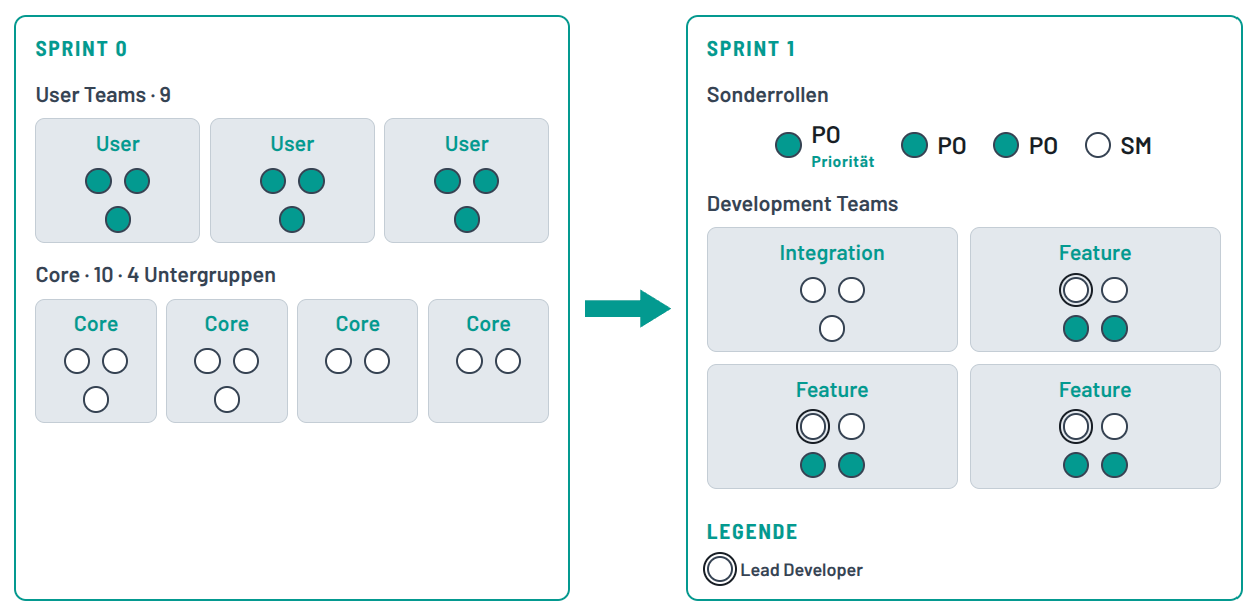
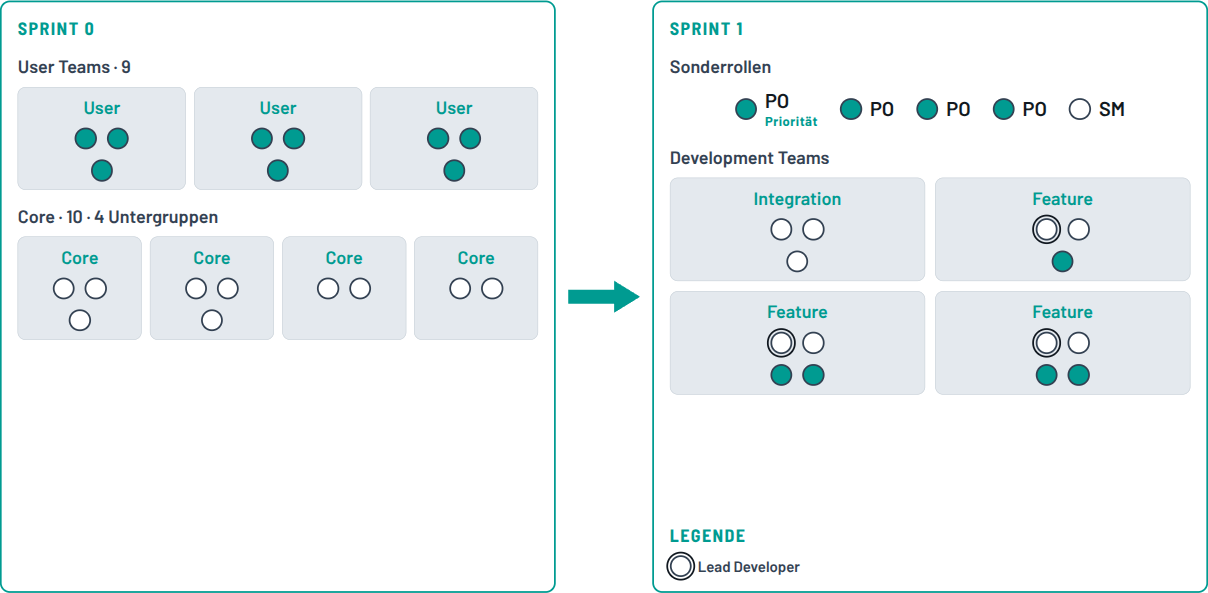
Adjust roles after Sprint 0 feedback

diff --git a/docs/projekt/rollen_arbeitsvereinbarungen/uebergang_sprint1.html b/docs/projekt/rollen_arbeitsvereinbarungen/uebergang_sprint1.html
@@ -1,0 +1,216 @@
+<!DOCTYPE html>
+<html lang="de">
+<head>
+  <meta charset="utf-8">
+  <meta name="viewport" content="width=device-width, initial-scale=1">
+  <title>Besetzung Sprint 1</title>
+  <link rel="stylesheet" href="https://fonts.googleapis.com/css2?family=Barlow+Semi+Condensed:wght@700&family=Barlow:wght@400;500;600;700;800&display=swap">
+  <style>
+    * { box-sizing: border-box; }
+    html, body { margin: 0; }
+    body {
+      background: #e8e8e6;
+      color: #111820;
+      font: 22px/1.35 Barlow, "Segoe UI", sans-serif;
+    }
+    .slide {
+      width: min(1280px, 100vw);
+      aspect-ratio: 16 / 9;
+      margin: 0 auto 16px;
+      background: #fff;
+      padding: 28px 36px 24px;
+      display: flex;
+      flex-direction: column;
+      gap: 16px;
+      overflow: hidden;
+    }
+    header { display: flex; justify-content: space-between; align-items: baseline; gap: 24px; }
+    h1 { margin: 0; font-size: 44px; font-weight: 800; letter-spacing: -0.02em; }
+    .boards {
+      flex: 1;
+      display: grid;
+      grid-template-columns: 1fr auto 1fr;
+      gap: 12px;
+      align-items: stretch;
+      min-height: 0;
+    }
+    .board {
+      border: 2px solid #009b91;
+      border-radius: 10px;
+      background: #fff;
+      padding: 14px 16px;
+      display: flex;
+      flex-direction: column;
+      gap: 14px;
+      min-height: 0;
+    }
+    h2 {
+      margin: 0;
+      font-family: "Barlow Semi Condensed", Barlow, sans-serif;
+      font-size: 18px;
+      font-weight: 700;
+      letter-spacing: 0.08em;
+      text-transform: uppercase;
+      color: #009b91;
+    }
+    .cluster { display: flex; flex-direction: column; gap: 8px; }
+    .cluster-label {
+      margin: 0;
+      font-size: 18px;
+      font-weight: 600;
+      color: #334152;
+    }
+    .row { display: flex; gap: 8px; }
+    .box {
+      flex: 1;
+      border: 1px solid #c5ced6;
+      border-radius: 8px;
+      background: #e4e9ee;
+      padding: 8px;
+      display: flex;
+      flex-direction: column;
+      align-items: center;
+      gap: 8px;
+      min-width: 0;
+    }
+    .box span { font-size: 18px; font-weight: 600; color: #009b91; }
+    .dots {
+      display: flex;
+      flex-wrap: wrap;
+      justify-content: center;
+      width: 56px;
+      gap: 10px;
+    }
+    .dot {
+      width: 22px;
+      height: 22px;
+      border-radius: 50%;
+      background: #fff;
+      border: 2px solid #334152;
+    }
+    .dot.user { background: #009b91; }
+    .dot.role { outline: 2px solid #111820; outline-offset: 2px; }
+    .legend {
+      margin-top: auto;
+      font-size: 15px;
+      font-weight: 600;
+      color: #334152;
+    }
+    .legend h3 {
+      margin: 0 0 8px;
+      font-family: "Barlow Semi Condensed", Barlow, sans-serif;
+      font-size: 18px;
+      font-weight: 700;
+      letter-spacing: 0.08em;
+      text-transform: uppercase;
+      color: #009b91;
+    }
+    .legend span { display: flex; align-items: center; gap: 6px; }
+    .loose {
+      display: flex;
+      justify-content: center;
+      gap: 22px;
+      align-items: center;
+    }
+    .person { display: flex; align-items: center; gap: 8px; font-size: 20px; font-weight: 600; color: #111820; }
+    .person small {
+      display: block;
+      font-size: 13px;
+      font-weight: 700;
+      letter-spacing: 0.04em;
+      color: #009b91;
+    }
+    .dev {
+      display: grid;
+      grid-template-columns: 1fr 1fr;
+      gap: 10px;
+      align-items: start;
+      align-content: start;
+    }
+    .flow-arrow {
+      display: flex;
+      align-items: center;
+      justify-content: center;
+      width: 72px;
+    }
+    @page {
+      size: 13.333in 7.5in;
+      margin: 0;
+    }
+    @media print {
+      html, body { margin: 0; background: #fff; }
+      .box, .dot, .board {
+        -webkit-print-color-adjust: exact;
+        print-color-adjust: exact;
+      }
+      .slide {
+        width: 13.333in;
+        height: 7.5in;
+        aspect-ratio: auto;
+        margin: 0;
+        overflow: hidden;
+      }
+    }
+  </style>
+</head>
+<body>
+  <article class="slide" id="uebergang">
+    <header>
+      <h1>Übergang zu Sprint 1</h1>
+    </header>
+    <div class="boards">
+      <section class="board">
+        <h2>Sprint 0</h2>
+        <div class="cluster">
+          <p class="cluster-label">User Teams · 9</p>
+          <div class="row">
+            <div class="box"><span>User</span><div class="dots"><i class="dot user"></i><i class="dot user"></i><i class="dot user"></i></div></div>
+            <div class="box"><span>User</span><div class="dots"><i class="dot user"></i><i class="dot user"></i><i class="dot user"></i></div></div>
+            <div class="box"><span>User</span><div class="dots"><i class="dot user"></i><i class="dot user"></i><i class="dot user"></i></div></div>
+          </div>
+        </div>
+        <div class="cluster">
+          <p class="cluster-label">Core · 10 · 4 Untergruppen</p>
+          <div class="row">
+            <div class="box"><span>Core</span><div class="dots"><i class="dot"></i><i class="dot"></i><i class="dot"></i></div></div>
+            <div class="box"><span>Core</span><div class="dots"><i class="dot"></i><i class="dot"></i><i class="dot"></i></div></div>
+            <div class="box"><span>Core</span><div class="dots"><i class="dot"></i><i class="dot"></i></div></div>
+            <div class="box"><span>Core</span><div class="dots"><i class="dot"></i><i class="dot"></i></div></div>
+          </div>
+        </div>
+      </section>
+      <div class="flow-arrow" aria-hidden="true">
+        <svg viewBox="0 0 72 36" width="72" height="36">
+          <polygon points="0,11 46,11 46,2 72,18 46,34 46,25 0,25" fill="#009b91"/>
+        </svg>
+      </div>
+      <section class="board">
+        <h2>Sprint 1</h2>
+        <div class="cluster">
+          <p class="cluster-label">Sonderrollen</p>
+          <div class="loose">
+            <span class="person"><i class="dot user"></i><span>PO<small>Priorität</small></span></span>
+            <span class="person"><i class="dot user"></i> PO</span>
+            <span class="person"><i class="dot user"></i> PO</span>
+            <span class="person"><i class="dot user"></i> PO</span>
+            <span class="person"><i class="dot"></i> SM</span>
+          </div>
+        </div>
+        <div class="cluster">
+          <p class="cluster-label">Development Teams</p>
+          <div class="row dev">
+            <div class="box"><span>Integration</span><div class="dots"><i class="dot"></i><i class="dot"></i><i class="dot"></i></div></div>
+            <div class="box"><span>Feature</span><div class="dots"><i class="dot role"></i><i class="dot"></i><i class="dot user"></i></div></div>
+            <div class="box"><span>Feature</span><div class="dots"><i class="dot role"></i><i class="dot"></i><i class="dot user"></i><i class="dot user"></i></div></div>
+            <div class="box"><span>Feature</span><div class="dots"><i class="dot role"></i><i class="dot"></i><i class="dot user"></i><i class="dot user"></i></div></div>
+          </div>
+        </div>
+        <div class="legend">
+          <h3>Legende</h3>
+          <span><i class="dot role"></i> Lead Developer</span>
+        </div>
+      </section>
+    </div>
+  </article>
+</body>
+</html>

diff --git a/docs/projekt/rollen_arbeitsvereinbarungen/README.md b/docs/projekt/rollen_arbeitsvereinbarungen/README.md
@@ -2,15 +2,24 @@
 
 ## Rollen und Verantwortungen
 
-### Product Owner (3)
+### Product Owner (4)
+
+- Entwickeln nicht.
+- ein gemeinsames Backlog
+
+#### PO der Sicht (3)
 
 - Kontakt zu Seezeit für die eigene Sicht
   - Drei Sichten: Studierende, Objektbetreuer, Sachbearbeiter. Je Sicht eine Person.
-- Entwickeln nicht.
 - Stories, Definition of Ready und fachliche Abnahme der eigenen Sicht
 - entscheidet den Inhalt der eigenen Sicht
-- ein gemeinsames Backlog
-- eine Person entscheidet die Priorität, Konflikte zwischen den Sichten und die gemeinsame Definition of Done
+- entscheidet die Definition of Done der eigenen Story. Die gemeinsame Checkliste gilt für jede Story. Die PO der Sicht kann Kriterien für die eigene Sicht ergänzen.
+
+#### PO Priorität (1)
+
+- keine eigene Sicht
+- entscheidet die Priorität des gemeinsamen Backlogs
+- entscheidet Konflikte zwischen den Sichten
 
 ### Scrum Master / Coach (1)
 
@@ -68,7 +77,7 @@ Mobile und verteilte Arbeit. Asynchron über Discord-channels, synchron in den W
 | Entwicklungs-Channel (general) | Laufende Abstimmung aller Feature Teams, des PO und des Scrum Masters zu Stories, Feature Branches, Reviews, Architektur und Terminen                       | höchstens zwei Werktage |
 | Feature-Channel                | Jeweils für die Feature Teams intern                                                                                                                        | höchstens zwei Werktage |
 | Integrations-Channel           | Für das Integrationsteam intern                                                                                                                             | höchstens zwei Werktage |
-| PO-Channel                     | Abstimmung der POs, ergibt sich aus den Bedürfnissen der POs, an den drei Sichten orientiert                                                                | höchstens zwei Werktage |
+| PO-Channel                     | Abstimmung der POs der Sicht und der PO Priorität, an den drei Sichten orientiert                                                                           | höchstens zwei Werktage |
 | Emergency-Channel              | Die VM steht, jemand ist nicht erreichbar (zum Beispiel ein wichtiger offener Merge) oder das Prod-Environment ist nicht erreichbar (zum Beispiel HTTP 500) | am selben Tag           |
 
 
@@ -83,7 +92,7 @@ Mobile und verteilte Arbeit. Asynchron über Discord-channels, synchron in den W
 
 ### Abstimmung
 
-- Jede PO-Person ist die Schnittstelle zu Seezeit für ihre Sicht (Studierende, Objektbetreuer, Sachbearbeiter). Eine davon priorisiert das gemeinsame Backlog.
+- Jede PO der Sicht ist die Schnittstelle zu Seezeit für ihre Sicht (Studierende, Objektbetreuer, Sachbearbeiter). Die PO Priorität priorisiert das gemeinsame Backlog und hat keine eigene Sicht.
 - Das Integrationsteam ist die Schnittstelle zu Seezeit-IT und zu Sybit.
 - Der Scrum Master hält Termine, Deadlines und den organisatorischen Rahmen sichtbar und achtet auf die Einhaltung der vereinbarten Prozesse. Den Inhalt bestimmen die zuständige PO-Person beziehungsweise das Integrationsteam. Die Termine setzen Seezeit, Seezeit-IT, Sybit und die Veranstalter des Projekts an der Hochschule.
 
@@ -92,7 +101,8 @@ Mobile und verteilte Arbeit. Asynchron über Discord-channels, synchron in den W
 ### Uneinigkeit
 
 - Inhalt einer Sicht entscheidet die PO-Person dieser Sicht.
-- Priorität und Konflikt zwischen den Sichten entscheidet die priorisierende PO-Person.
+- Priorität und Konflikt zwischen den Sichten entscheidet die PO Priorität.
+- Definition of Done einer Story entscheidet die PO der Sicht. Die gemeinsame Checkliste gilt für jede Story. Die PO der Sicht kann Kriterien für die eigene Sicht ergänzen.
 - Architektur im Schnitt entscheidet der Lead Developer.
 - Teamübergreifende Architektur, Tech-Stack, Umgebungen und CI/CD entscheidet das Integrationsteam.
 - Der Scrum Master moderiert und stimmt nicht mit.
@@ -105,8 +115,8 @@ Mobile und verteilte Arbeit. Asynchron über Discord-channels, synchron in den W
 
 ### Möglicher Übergang zu Sprint 1
 
-- PO aus den User Teams. SM, Integration und Lead Developer aus dem Core Team. Bringen jeweils ihre Expertise mit.
-- Je Feature Team zwei aus dem User Team und zwei aus dem Core Team. Befähigt Teams zu vertikalen Schnitt.
+- PO der Sicht aus den User Teams. Die PO Priorität in Sprint 1 aus dem User-Anteil eines Feature Teams. Sie entwickelt in Sprint 1 nicht. SM, Integration und Lead Developer aus dem Core Team. Bringen jeweils ihre Expertise mit.
+- Zwei Feature Teams mit je zwei Personen aus dem User Team und zwei aus dem Core Team. Ein Feature Team mit einer Person aus dem User Team und zwei aus dem Core Team, darunter der Lead Developer. Befähigt Teams zu vertikalen Schnitt.
 
 ![](uebergang_sprint1.png)
 
@@ -114,6 +124,7 @@ Mobile und verteilte Arbeit. Asynchron über Discord-channels, synchron in den W
 
 - Neu zusammengesetzte Teams, nicht nur aufgefüllte bestehende.
 - Welche Rolle jemand übernimmt, hängt daran, was die Person kann, will und an Verantwortung übernimmt.
+- Verantwortung ist nicht Arbeitslast. Die Arbeitslast bleibt gleichmäßig und fair verteilt.
 
 ---
 
@@ -137,7 +148,7 @@ Steht in einer Zeile kein R, führt die Rolle mit A die Aufgabe aus.
 | ------------------------------------------------------------ | ------------ | ------------ | --- | ---------------------- | -------------- | ---------------- |
 | Priorität des gemeinsamen Backlogs                           | A            | C            | I   | I                      | C              | C                |
 | Konflikt zwischen den Sichten                                | A            | C            | I   | I                      | I              | I                |
-| Definition of Done                                           | A            | C            | I   | C                      | C              | R                |
+| Definition of Done                                           | I            | A            | I   | C                      | C              | R                |
 | Stories einer Sicht                                          | C            | A            | I   | I                      | C              | I                |
 | Kontakt zu Seezeit für diese Sicht                           | I            | A            | I   | I                      | I              | I                |
 | Produktentscheidung innerhalb der Sicht                      | C            | A            | I   | I                      | C              | I                |

diff --git a/docs/projekt/rollen_arbeitsvereinbarungen/CHANGELOG.md b/docs/projekt/rollen_arbeitsvereinbarungen/CHANGELOG.md
@@ -1,0 +1,8 @@
+# Changelog
+
+## 04.11.26
+
+- Eine vierte Product-Owner-Rolle entscheidet nur die Priorität und Konflikte zwischen den Sichten und hat keine eigene Sicht.
+- Die Definition of Done einer Story entscheidet die PO der Sicht, und die gemeinsame Checkliste gilt für jede Story.
+- In Sprint 1 kommt die PO Priorität aus dem User-Anteil eines Feature Teams, das dadurch drei Mitglieder hat.
+
